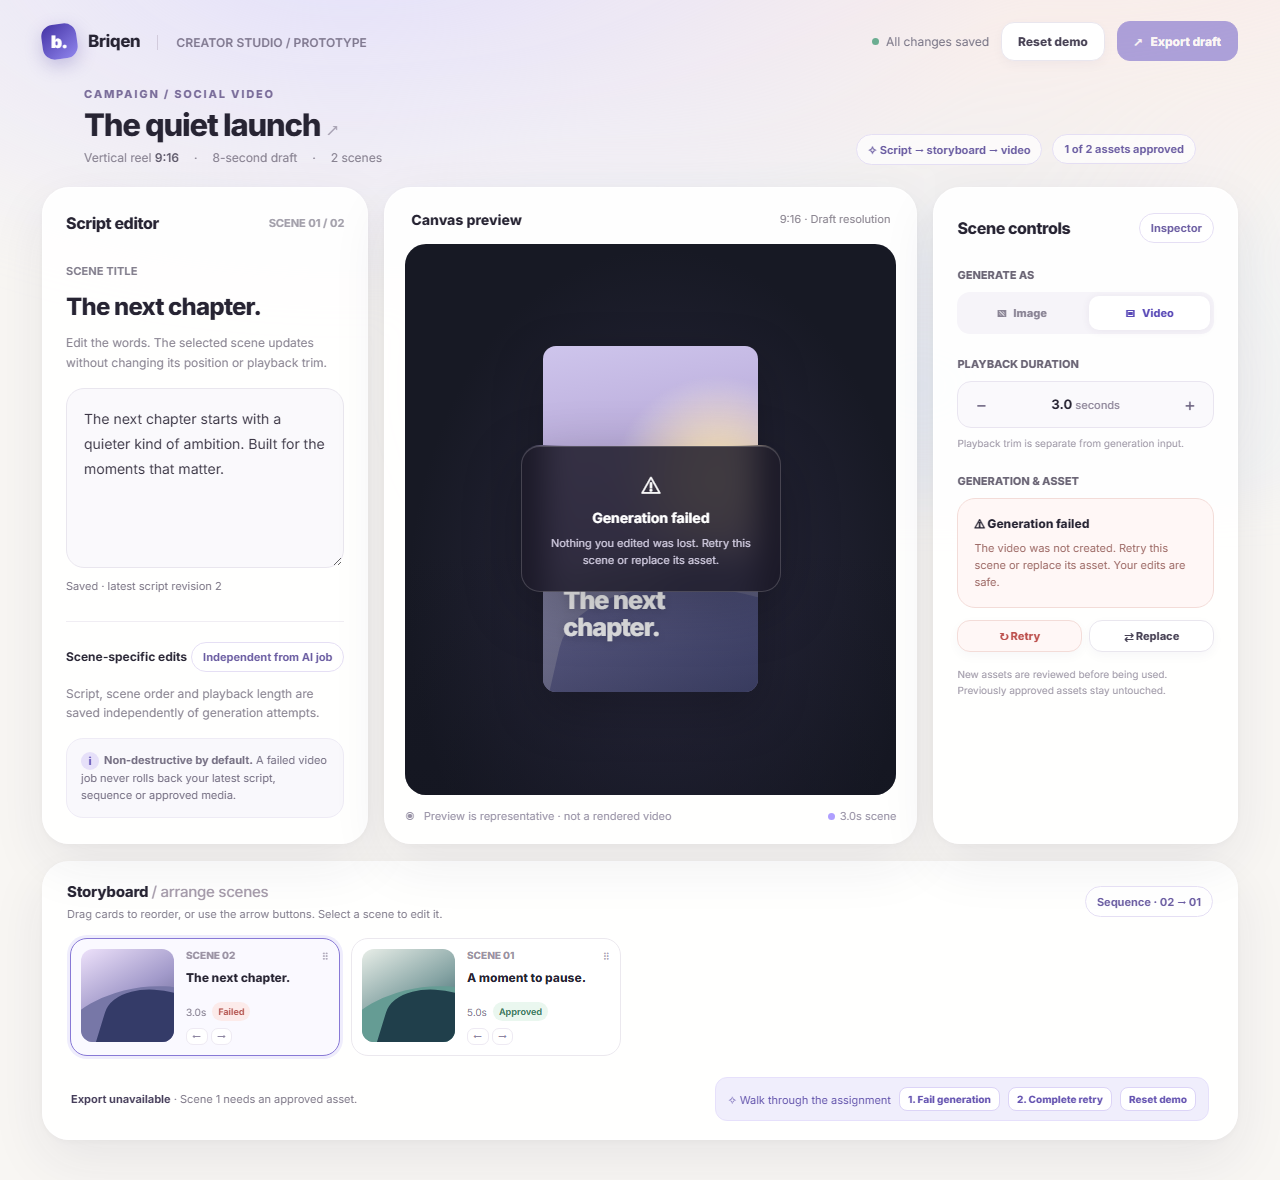
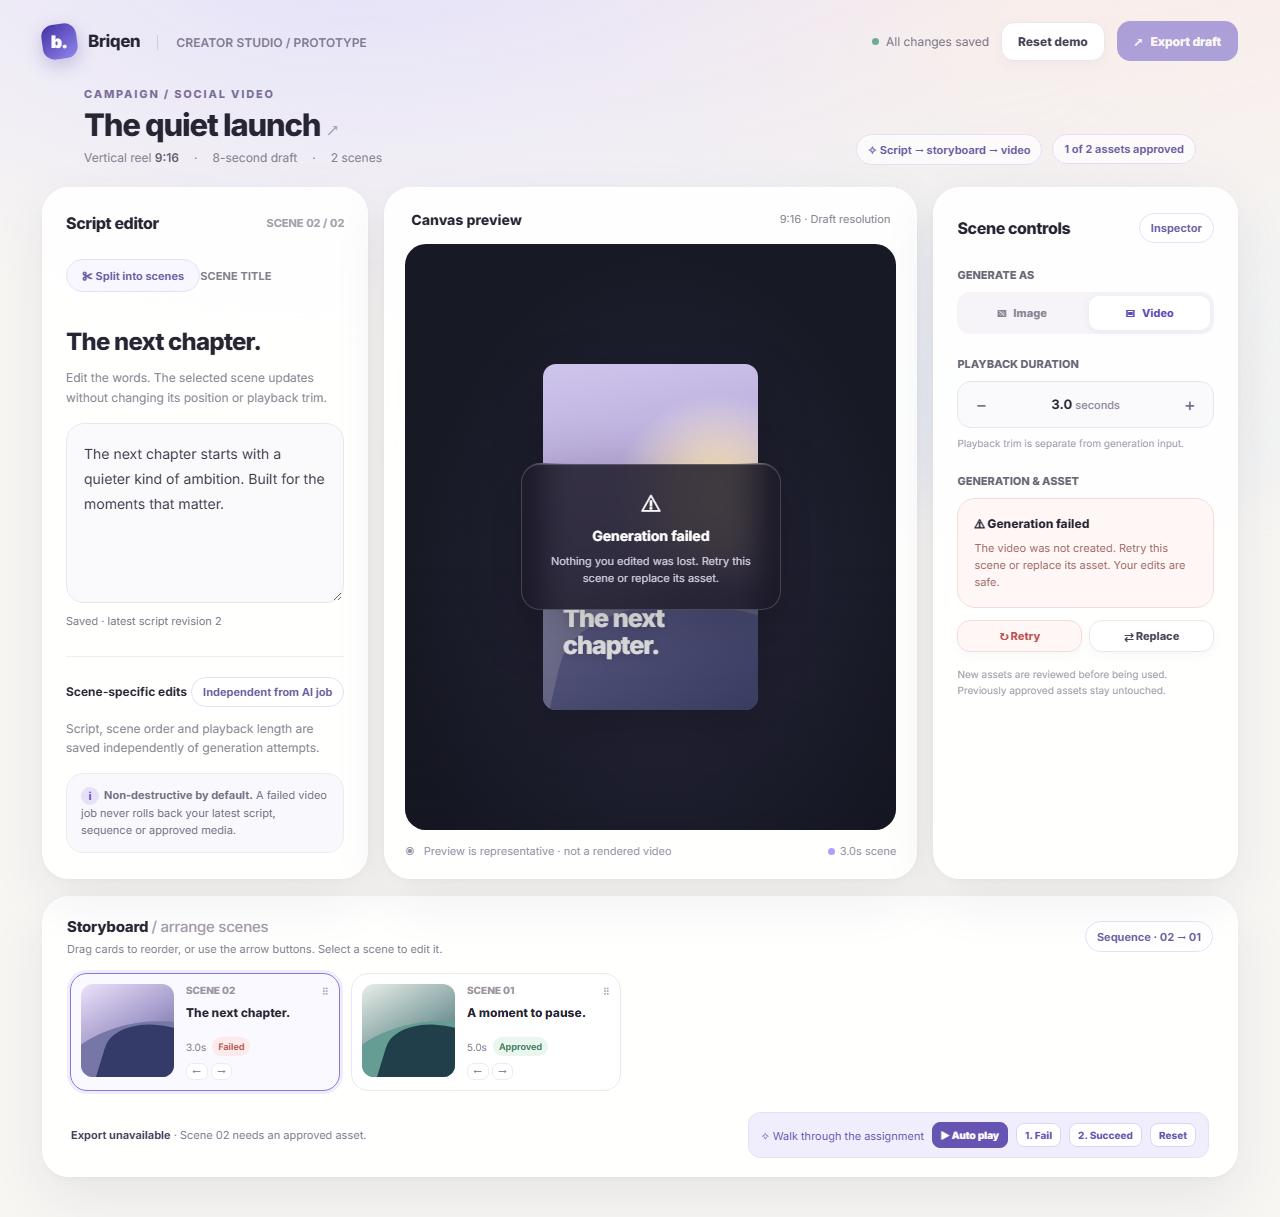
fix: pre-submission review fixes — scene labels, selectors, UI, PDFs
Issue 1: Incorrect scene labels after reorder
- Extract SCENE_LABELS to shared src/utils/sceneLabels.ts
- Update selectors.ts to use stable labels instead of positional index
- Update ScriptPanel.tsx to display correct scene label
- Update Storyboard.tsx to import from shared utility
- Add test verifying "Scene 02" appears after reorder

Issue 2: Harden export eligibility selector
- Replace approvedAssetId !== null with Boolean() check
- Handle missing scene IDs and empty sceneOrder
- Add edge-case tests for phantom scenes and empty order

Issue 3: "Split into scenes" button
- Add simulated split button in ScriptPanel
- Shows toast on click explaining simulation
- Styled as pill button matching design system

Issue 4: AI appendix text correction
- Replace "I wrote the original brief" with accurate claim
- Updated in pdf/appendix.html and docs/AI_USE_APPENDIX.md

Issue 5: PDF layout improvements
- Increase .note-title from 9px to 10px
- Increase .note-body from 8px to 9px
- Increase .invariant p from 8.2px to 8.5px
- Add breathing room: .wireframes margin-top 6px → 8px

Issue 6: User-facing e2e test
- Add UI walkthrough test clicking real controls
- Tests reorder, trim, fail, retry, approve, export flow
- Verifies edits preserved through full scenario

All tests pass: 75 unit + 10 e2e. PDFs regenerated.

diff --git a/src/components/Storyboard/Storyboard.tsx b/src/components/Storyboard/Storyboard.tsx
@@ -1,13 +1,8 @@
 import { useState, useCallback, useRef, useEffect } from 'react';
 import { useEditorStore } from '@/state/store';
 import { selectExportReady, selectExportBlockReason, selectAssetDisplay } from '@/state/selectors';
+import { sceneDisplayLabel } from '@/utils/sceneLabels';
 import styles from './Storyboard.module.css';
-
-const SCENE_LABELS: Record<string, string> = { s1: '01', s2: '02' };
-
-function sceneDisplayNum(id: string): string {
-  return SCENE_LABELS[id] ?? id;
-}
 
 export function Storyboard({ onToast }: { onToast: (msg: string) => void }) {
   const sceneOrder = useEditorStore((s) => s.sceneOrder);
@@ -143,7 +138,7 @@ export function Storyboard({ onToast }: { onToast: (msg: string) => void }) {
     })();
   }, [isPlaying, reset, selectScene, generationFailed, retryGeneration, generationSucceeded, approveCandidate, onToast]);
 
-  const sequenceLabel = sceneOrder.map((id) => sceneDisplayNum(id)).join(' → ');
+  const sequenceLabel = sceneOrder.map((id) => sceneDisplayLabel(id)).join(' → ');
 
   return (
     <section className={styles.storyboard}>
@@ -194,12 +189,12 @@ export function Storyboard({ onToast }: { onToast: (msg: string) => void }) {
               onDrop={(e) => handleDrop(e, id)}
               role="button"
               tabIndex={0}
-              aria-label={`Select Scene ${sceneDisplayNum(id)}`}
+              aria-label={`Select Scene ${sceneDisplayLabel(id)}`}
             >
               <div className={`${styles.thumb} ${id === 's1' ? styles.thumbOne : styles.thumbTwo}`} />
               <div className={styles.cardContent}>
                 <div className={styles.cardTop}>
-                  <span className={styles.cardIndex}>SCENE {sceneDisplayNum(id)}</span>
+                  <span className={styles.cardIndex}>SCENE {sceneDisplayLabel(id)}</span>
                   <span className={styles.dragHandle}>⠿</span>
                 </div>
                 <div className={styles.cardTitle}>{scene.title}</div>
@@ -211,14 +206,14 @@ export function Storyboard({ onToast }: { onToast: (msg: string) => void }) {
                   <button
                     className={styles.moveBtn}
                     onClick={(e) => handleMove(e, id, -1)}
-                    aria-label={`Move Scene ${sceneDisplayNum(id)} earlier`}
+                    aria-label={`Move Scene ${sceneDisplayLabel(id)} earlier`}
                   >
                     ←
                   </button>
                   <button
                     className={styles.moveBtn}
                     onClick={(e) => handleMove(e, id, 1)}
-                    aria-label={`Move Scene ${sceneDisplayNum(id)} later`}
+                    aria-label={`Move Scene ${sceneDisplayLabel(id)} later`}
                   >
                     →
                   </button>

diff --git a/__tests__/e2e/scenario.spec.ts b/__tests__/e2e/scenario.spec.ts
@@ -123,4 +123,50 @@ test.describe('Briqen Creator Studio — Full Scenario', () => {
 
     expect(errors).toEqual([]);
   });
+
+  test('9. UI walkthrough: reorder, trim, fail, retry, approve, export', async ({ page }) => {
+    // Verify initial state via UI
+    const exportBtn = page.locator('button:has-text("Export draft")');
+    await expect(exportBtn).toBeDisabled();
+
+    // Reorder: Scene 2 is at position 0, move Scene 1 earlier to swap order
+    await page.click('button[aria-label="Move Scene 01 earlier"]');
+    await page.waitForTimeout(300);
+
+    // Select Scene 2 by clicking its card
+    await page.click('[aria-label="Select Scene 02"]');
+    await page.waitForTimeout(300);
+
+    // Trim duration: decrease from 3.0s to 2.5s
+    await page.click('button[aria-label="Decrease duration"]');
+    await page.waitForTimeout(300);
+    const state1 = await page.evaluate(() => window.__briqenDemo?.getState());
+    expect(state1!.scenesById.s2.durationSec).toBe(2.5);
+
+    // Fail via demo button
+    await page.click('button:has-text("1. Fail")');
+    await page.waitForTimeout(500);
+
+    // Verify Retry button appears in Inspector and click it
+    await page.click('button:has-text("↻ Retry")');
+    await page.waitForTimeout(500);
+
+    // Succeed via demo button
+    await page.click('button:has-text("2. Succeed")');
+    await page.waitForTimeout(500);
+
+    // Approve via Inspector approve button
+    await page.click('button:has-text("✓ Approve")');
+    await page.waitForTimeout(500);
+
+    // Verify export is now enabled
+    await expect(exportBtn).toBeEnabled();
+
+    // Verify scene edits were preserved through the whole flow
+    const finalState = await page.evaluate(() => window.__briqenDemo?.getState());
+    expect(finalState!.sceneOrder).toEqual(['s1', 's2']);
+    expect(finalState!.scenesById.s2.durationSec).toBe(2.5);
+    expect(finalState!.scenesById.s1.approvedAssetId).toBe('asset_approved_01');
+    expect(finalState!.scenesById.s2.approvedAssetId).toBeTruthy();
+  });
 });

diff --git a/pdf/appendix.html b/pdf/appendix.html
@@ -58,7 +58,7 @@ html, body { font-family: 'Inter', -apple-system, sans-serif; -webkit-print-colo
   <div class="two-col">
     <div class="section purple">
       <div class="section-label">What I changed &amp; verified</div>
-      <p class="section-text" style="line-height: 1.7;">I wrote the original brief, defined the critical scenario and priorities, and chose the design direction (Apple-inspired, script-first scene cards over timeline). I designed the state architecture: separating persistent scene edits from async generation jobs, revision-based staleness, and derived export gate. I reviewed and modified the generated code, ran the full app in-browser on desktop and mobile, walked through fail/retry/approve/export flows, ran all 72 unit and 9 e2e tests, inspected both PDFs for completeness and accuracy, and made final editorial and architecture decisions throughout.</p>
+      <p class="section-text" style="line-height: 1.7;">I interpreted Briqen's assignment, prioritized the failure-recovery scenario, chose the script-first scene-card approach, and used Claude to assist with implementation, testing, and documentation. I designed the state architecture: separating persistent scene edits from async generation jobs, revision-based staleness, and derived export gate. I reviewed and modified the generated code, ran the full app in-browser on desktop and mobile, walked through fail/retry/approve/export flows, ran all 72 unit and 9 e2e tests, inspected both PDFs for completeness and accuracy, and made final editorial and architecture decisions throughout.</p>
     </div>
     <div class="section purple">
       <div class="section-label">Prior work</div>

diff --git a/src/state/selectors.ts b/src/state/selectors.ts
@@ -1,4 +1,5 @@
 import type { EditorState, Scene, GenerationAttempt, JobStatus } from '../types';
+import { sceneDisplayLabel } from '../utils/sceneLabels';
 
 export function selectSelectedScene(state: EditorState): Scene | undefined {
   return state.scenesById[state.selectedSceneId];
@@ -9,11 +10,12 @@ export function selectActiveJob(state: EditorState, sceneId: string): Generation
 }
 
 export function selectExportReady(state: EditorState): boolean {
-  return state.sceneOrder.every((id) => state.scenesById[id]?.approvedAssetId !== null);
+  return state.sceneOrder.length > 0 &&
+    state.sceneOrder.every((id) => Boolean(state.scenesById[id]?.approvedAssetId));
 }
 
 export function selectApprovedCount(state: EditorState): number {
-  return Object.values(state.scenesById).filter((s) => s.approvedAssetId !== null).length;
+  return Object.values(state.scenesById).filter((s) => Boolean(s.approvedAssetId)).length;
 }
 
 export function selectTotalDuration(state: EditorState): number {
@@ -23,10 +25,7 @@ export function selectTotalDuration(state: EditorState): number {
 export function selectExportBlockReason(state: EditorState): string | null {
   const missing = state.sceneOrder.filter((id) => !state.scenesById[id]?.approvedAssetId);
   if (missing.length === 0) return null;
-  const names = missing.map((id) => {
-    const idx = state.sceneOrder.indexOf(id) + 1;
-    return `Scene ${idx}`;
-  });
+  const names = missing.map((id) => `Scene ${sceneDisplayLabel(id)}`);
   return `${names.join(', ')} need${missing.length > 1 ? '' : 's'} an approved asset.`;
 }
 

diff --git a/src/components/ScriptPanel/ScriptPanel.tsx b/src/components/ScriptPanel/ScriptPanel.tsx
@@ -1,5 +1,7 @@
 import { useRef, useCallback } from 'react';
 import { useEditorStore } from '@/state/store';
+import { useToast } from '@/components/shared/Toast';
+import { sceneDisplayLabel } from '@/utils/sceneLabels';
 import styles from './ScriptPanel.module.css';
 
 export function ScriptPanel() {
@@ -8,8 +10,9 @@ export function ScriptPanel() {
   const sceneOrder = useEditorStore((s) => s.sceneOrder);
   const updateScript = useEditorStore((s) => s.updateScript);
   const textareaRef = useRef<HTMLTextAreaElement>(null);
+  const toast = useToast();
 
-  const sceneIndex = sceneOrder.indexOf(selectedId) + 1;
+  const sceneLabel = sceneDisplayLabel(selectedId);
   const totalScenes = sceneOrder.length;
 
   const handleChange = useCallback(
@@ -26,9 +29,16 @@ export function ScriptPanel() {
       <div className={styles.heading}>
         <h2 className={styles.headingTitle}>Script editor</h2>
         <span className={styles.sceneNum}>
-          SCENE {String(sceneIndex).padStart(2, '0')} / {String(totalScenes).padStart(2, '0')}
+          SCENE {sceneLabel} / {String(totalScenes).padStart(2, '0')}
         </span>
       </div>
+
+      <button
+        className={styles.splitBtn}
+        onClick={() => toast('Script splitting is simulated in this prototype.')}
+      >
+        ✂ Split into scenes
+      </button>
 
       <span className={styles.label}>SCENE TITLE</span>
       <div className={styles.sceneTitle}>{scene.title}</div>

diff --git a/pdf/submission.html b/pdf/submission.html
@@ -45,7 +45,7 @@ html,body{font-family:'Inter',-apple-system,BlinkMacSystemFont,sans-serif;color:
 .pipeline-step .text{font-size:8.5px;font-weight:700}
 
 /* ═══ WIREFRAME ═══ */
-.wireframes{display:grid;grid-template-columns:1fr 1fr;gap:14px;margin-top:6px}
+.wireframes{display:grid;grid-template-columns:1fr 1fr;gap:14px;margin-top:8px}
 .wire{border:1px solid var(--border);border-radius:14px;background:#fff;overflow:hidden;padding:0;position:relative}
 
 /* wire topbar */
@@ -115,12 +115,12 @@ html,body{font-family:'Inter',-apple-system,BlinkMacSystemFont,sans-serif;color:
 /* ═══ INVARIANT BOX ═══ */
 .invariant{background:#F3F0FB;border-radius:10px;padding:10px 14px;margin-top:8px}
 .invariant .title{font-size:7.7px;font-weight:800;color:var(--vio);letter-spacing:.5px;margin-bottom:4px}
-.invariant p{font-size:8.2px;line-height:1.5}
+.invariant p{font-size:8.5px;line-height:1.5}
 
 /* ═══ ANNOTATION NOTES ═══ */
 .notes{display:grid;grid-template-columns:1fr 1fr 1fr;gap:18px;margin-top:8px}
-.note-title{font-size:9px;font-weight:800;margin-bottom:3px}
-.note-body{font-size:8px;color:var(--mute);line-height:1.5}
+.note-title{font-size:10px;font-weight:800;margin-bottom:3px}
+.note-body{font-size:9px;color:var(--mute);line-height:1.5}
 
 /* ═══ WALKTHROUGH FOOTER ═══ */
 .walkthrough{font-size:7.8px;font-weight:700;color:var(--vio);margin-top:8px}

diff --git a/__tests__/selectors.test.ts b/__tests__/selectors.test.ts
@@ -67,6 +67,16 @@ describe('selectExportReady', () => {
     });
     expect(selectExportReady(state)).toBe(true);
   });
+
+  it('returns false when sceneOrder references a missing scene ID', () => {
+    const state = makeState({ sceneOrder: ['s1', 's2', 'phantom'] });
+    expect(selectExportReady(state)).toBe(false);
+  });
+
+  it('returns false when sceneOrder is empty', () => {
+    const state = makeState({ sceneOrder: [] });
+    expect(selectExportReady(state)).toBe(false);
+  });
 });
 
 describe('selectApprovedCount', () => {
@@ -121,6 +131,13 @@ describe('selectExportBlockReason', () => {
     expect(reason).not.toBeNull();
     expect(reason).toContain('Scene');
     expect(reason).toContain('approved asset');
+  });
+
+  it('uses stable scene labels, not positional index', () => {
+    const state = makeState({ sceneOrder: ['s2', 's1'] });
+    const reason = selectExportBlockReason(state);
+    expect(reason).toContain('Scene 02');
+    expect(reason).not.toContain('Scene 1');
   });
 });
 

diff --git a/src/components/ScriptPanel/ScriptPanel.module.css b/src/components/ScriptPanel/ScriptPanel.module.css
@@ -29,6 +29,24 @@
   font-weight: 700;
 }
 
+.splitBtn {
+  border: 1px solid #e5dff4;
+  color: #6b5da2;
+  background: rgba(245, 242, 255, 0.68);
+  border-radius: 100px;
+  font-size: 11px;
+  padding: 8px 15px;
+  font-weight: 700;
+  cursor: pointer;
+  transition: all var(--transition-fast);
+  margin-bottom: 22px;
+}
+
+.splitBtn:hover {
+  background: #efeaff;
+  border-color: #d4c9f7;
+}
+
 .label {
   font-size: 11px;
   color: var(--muted);

diff --git a/src/utils/sceneLabels.ts b/src/utils/sceneLabels.ts
@@ -1,0 +1,16 @@
+/**
+ * Stable scene ID-to-label mapping.
+ * These labels are independent of scene order in the storyboard.
+ */
+export const SCENE_LABELS: Record<string, string> = {
+  s1: '01',
+  s2: '02',
+};
+
+/**
+ * Returns the display label for a scene ID.
+ * Falls back to the ID itself if no label is mapped.
+ */
+export function sceneDisplayLabel(id: string): string {
+  return SCENE_LABELS[id] ?? id;
+}

diff --git a/docs/AI_USE_APPENDIX.md b/docs/AI_USE_APPENDIX.md
@@ -6,7 +6,7 @@ AI (Claude, Anthropic) was used extensively throughout this submission — from 
 
 ## What I Did
 
-I wrote the original brief, defined the critical scenario and priorities, and chose the design direction (Apple-inspired, script-first scene cards over timeline). I designed the state architecture: separating persistent scene edits from async generation jobs, revision-based staleness, and derived export gate. I reviewed and modified the generated code, ran the full app in-browser on desktop and mobile, walked through fail/retry/approve/export flows, ran all 72 unit and 9 e2e tests, inspected both PDFs for completeness and accuracy, and made final editorial and architecture decisions throughout.
+I interpreted Briqen's assignment, prioritized the failure-recovery scenario, chose the script-first scene-card approach, and used Claude to assist with implementation, testing, and documentation. I designed the state architecture: separating persistent scene edits from async generation jobs, revision-based staleness, and derived export gate. I reviewed and modified the generated code, ran the full app in-browser on desktop and mobile, walked through fail/retry/approve/export flows, ran all 72 unit and 9 e2e tests, inspected both PDFs for completeness and accuracy, and made final editorial and architecture decisions throughout.
 
 ## Public Design References
 
